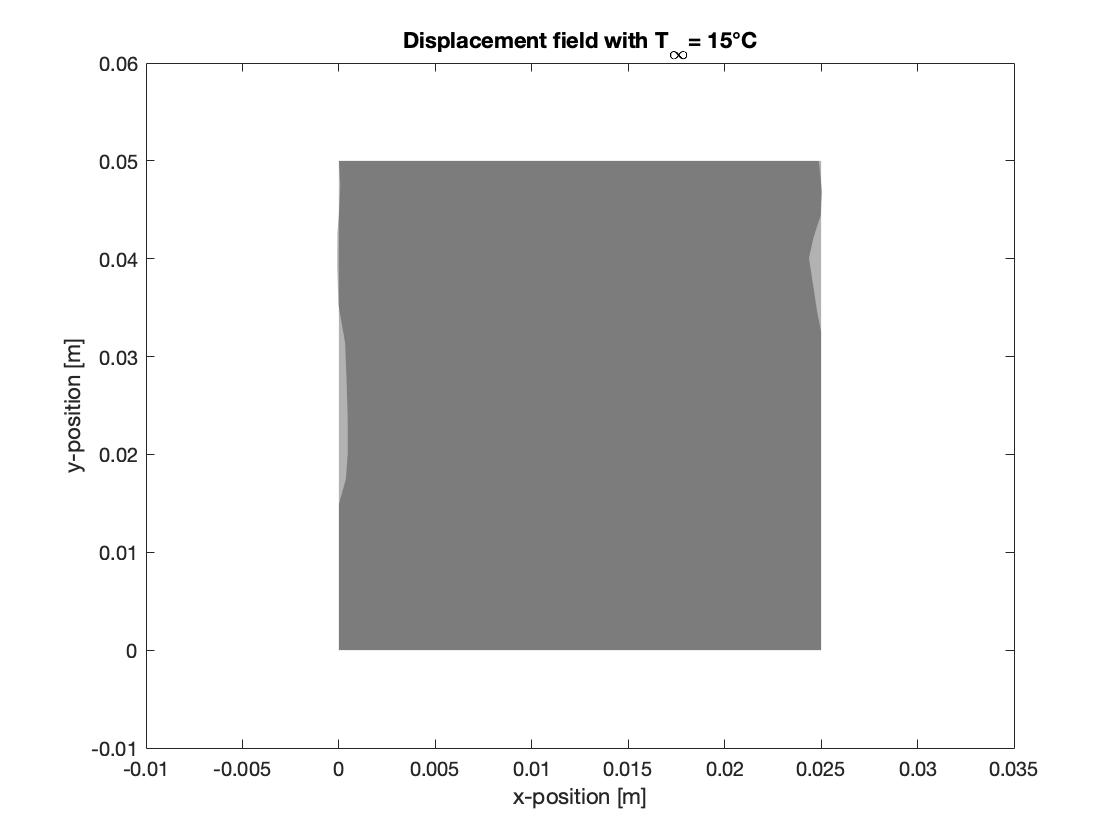
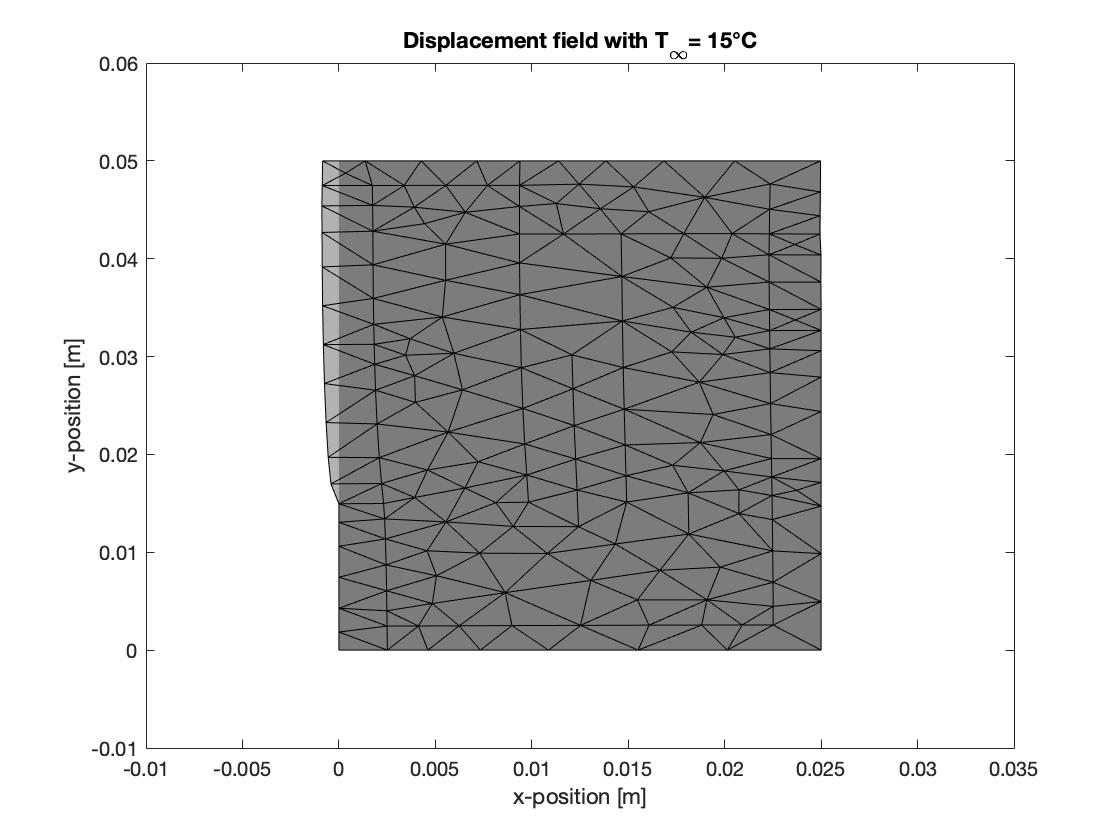
printing out peak stress and location of peak stress

Changed region(s): [[0.2812, 0.1857, 0.75, 0.7738], [0.4688, 0.65, 0.5, 0.681], [0.4375, 0.681, 0.4688, 0.7119]]

diff --git a/main.m b/main.m
@@ -12,7 +12,7 @@ p=p*1e-3;
 % initialize
 T0 = 25;
 T_inf = 15;
-T_inf = 25; %uppgift b
+%T_inf = 25; %uppgift b
 Q = 1e5;
 %Q = 1e5*1.6^2; %uppgift a, del2
 alpha_c = 100;
@@ -252,7 +252,8 @@ for i = 1:size(eff_nod)
 end
 
 eff_e = extract(edof, eff_nod);
-
+[value index] = max(eff_nod)
+p(:,index)
 figure
 fill(ex',ey',eff_e')%,'EdgeColor','none')
 colorbar
@@ -261,8 +262,8 @@ colorbar;
 xlabel('x-position [m]')
 ylabel('y-position [m]')
 axis([0 .025 0 .05])
-[Y,I] = max(eff);
-I
+%[Y,I] = max(eff);
+%I
 
 max(max(eff_e))
 min(min(eff_e))
@@ -271,11 +272,8 @@ min(min(eff_e))
 pdis = zeros(size(p));
 udisx = a_dis(1:2:end);
 udisy = a_dis(2:2:end);
-<<<<<<< HEAD
-magnitude = 100;
-=======
-magnitude = 1000;
->>>>>>> 0069d95dd8bca45d55698b5a1c6321e23905f8a6
+magnitude = 200;
+
 pdis(1,:) = p(1,:)+udisx'*magnitude;
 pdis(2,:) = p(2,:)+udisy'*magnitude;
 coorddis = pdis';
@@ -284,8 +282,8 @@ figure
 title(['Displacement field with T_{\infty}= ',num2str(T_inf), '°C'])
 fill(ex',ey',[0 0 0],'EdgeColor','none','FaceAlpha',0.3)
 hold on
-fill(exdis',eydis',[0 0 0],'EdgeColor','none',   'FaceAlpha', 0.3);
-title(['Displacement field with T_{\infty}= ',num2str(T_inf), '°C'])
+fill(exdis',eydis',[0 0 0],'FaceAlpha', 0.3);
+title(['Displacement field with T_{\infty}= ',num2str(T_inf), '°C']) 
 xlabel('x-position [m]')
 ylabel('y-position [m]')
 margin = 0.01;
